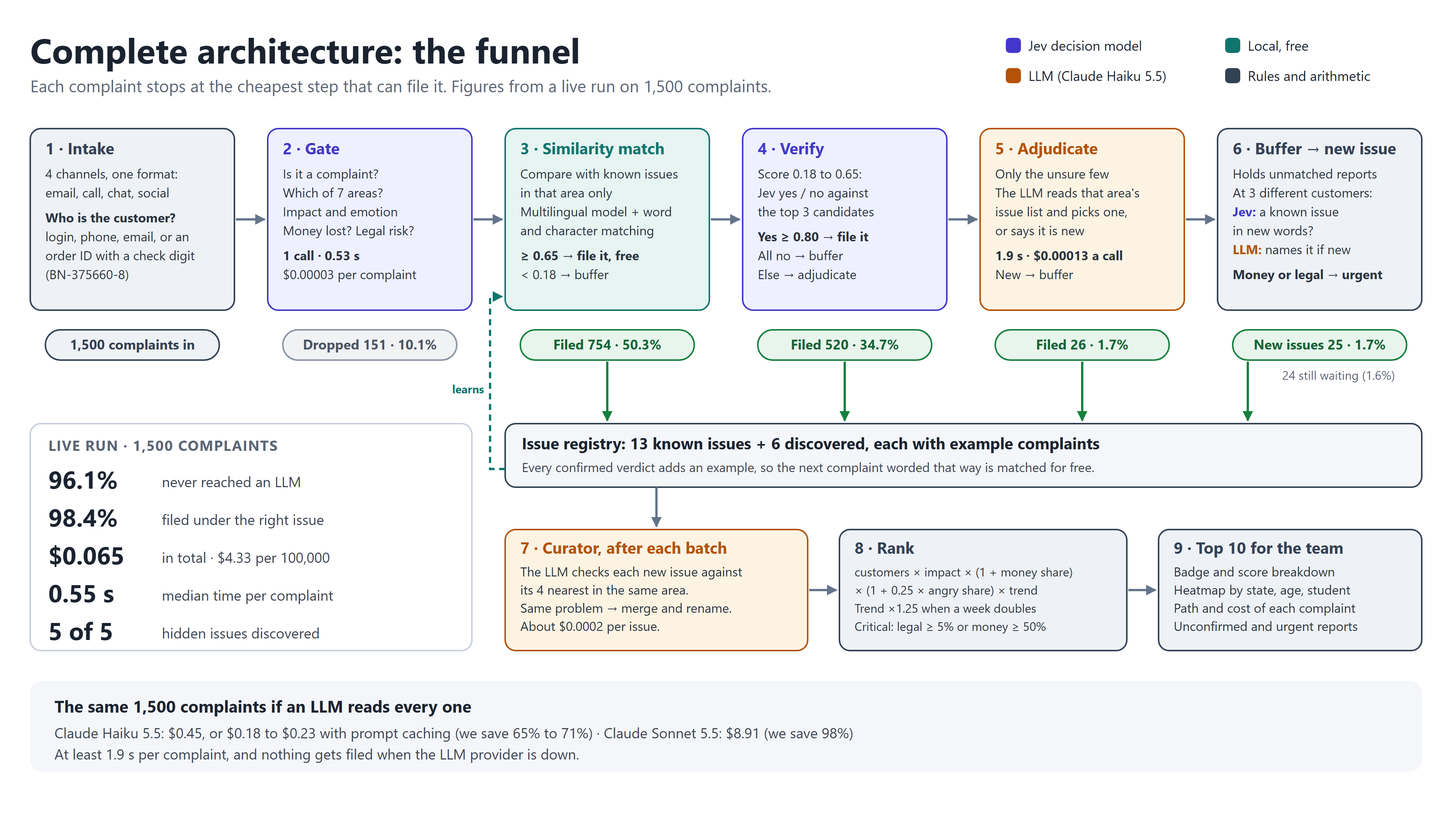
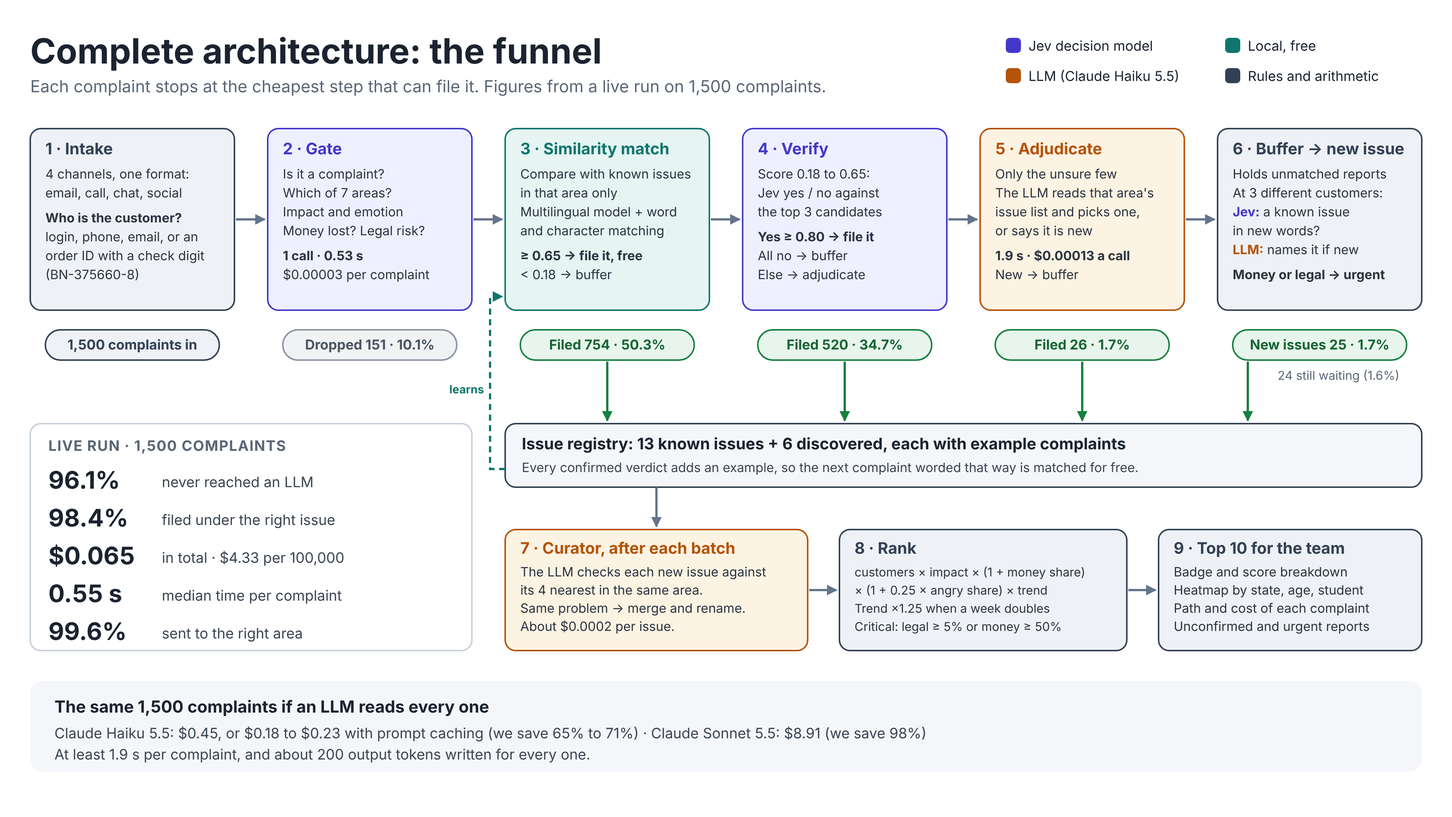
Remove the self-discovery and LLM-outage claims everywhere
Kartik judged "finds new problems on its own" weak, and outage resilience
is not a real advantage because a fallback LLM covers it. Removed from the
deck (discovery slide dropped, journey, close, problem, accuracy, segments,
limits), the funnel and Jev/LLM diagrams (SVG and PNG), the guide, the
frontend handoff and the session handoff, which also gets a standing rule
so the claims do not come back.

Claude-Session: https://claude.ai/code/session_014wJRZnMHXGCu4hqsJpRMMQ

diff --git a/docs/deck/project/slides/roles.html b/docs/deck/project/slides/roles.html
@@ -1,4 +1,4 @@
 <section id="roles" class="full">
-<img src="/_blob/96ac35eac52a443628ff6032cfc74c0b" alt="Who does what. Jev, a decision model, picks from options and returns probabilities: the gate on every complaint (1,500 calls, $0.046, 0.53 s each), verify for unsure matches (595 calls), and a group check before a new issue (7 calls). Local and free: intake and identity, similarity match (50.3% of complaints), the buffer, ranking and segments. The LLM, Claude Haiku 5.5, writes and judges in words: adjudicate the last unsure few (58 calls, 1.7% of complaints), name each new issue (6 calls), and the Curator after each batch (6 calls). Total: 96.1% never reach the LLM, 98.4% filed correctly, $0.065 for 1,500, 0.55 s median.">
+<img src="/_blob/4d0bb51e65e73df4c753d2590c4e7d5b" alt="Who does what. Jev, a decision model, picks from options and returns probabilities: the gate on every complaint (1,500 calls, $0.046, 0.53 s each), verify for unsure matches (595 calls), and a group check before a new issue (7 calls). Local and free: intake and identity, similarity match (50.3% of complaints), the buffer, ranking and segments. The LLM, Claude Haiku 5.5, writes and judges in words: adjudicate the last unsure few (58 calls, 1.7% of complaints), name each new issue (6 calls), and the Curator after each batch (6 calls). Total: 96.1% never reach the LLM, 98.4% filed correctly, $0.065 for 1,500, 0.55 s median.">
 <aside>How Jev works, and who does what. Three workers, by colour. Top row, Jev: a decision model. You give it the complaint and a list of questions with fixed options, and it returns a choice and a probability for each, never free text. It does three jobs. The gate: one call per complaint, six questions, is it a complaint, which area, impact, emotion, money lost, legal risk. Verify: when a match is unsure, is this the same problem as these three, yes or no. Group check: before we create a new problem, is this a known one in new words. Middle row, green, is free and runs on the laptop: reading the channels, finding the customer, matching by meaning, the waiting list, and the ranking. Bottom row, the LLM, Claude Haiku: only where words are needed. Deciding the last unsure 1.7 percent, naming new problems, and merging duplicates. 58 decision calls in the whole run of 1,500. Jev needs no training: the labels come from the business's settings file per request, so a new business only writes that file.</aside>
 </section>

diff --git a/docs/deck/project/slides/journey.html b/docs/deck/project/slides/journey.html
@@ -15,8 +15,7 @@
 </div>
 <div class="spacer"></div>
 <div class="strip fragment" data-fragment-index="6">
-<p class="tip"><b>A problem nobody has named?</b> Once 3 different customers report it, it is named and ranked on its own.</p>
 <p class="tip"><b>Money lost or a safety risk?</b> Flagged urgent from the very first report.</p>
 </div>
-<aside>Show this on the second laptop while you demo the prototype. Click once per step as the app does it. 1, it arrives: any channel, any language, here Hinglish on chat. 2, it is understood: the system decides this is a real complaint, that it is about payments, that money was lost and the impact is high. Praise, spam and questions are set aside here. 3, it is recognised: the complaint is tied to the customer, so someone who emails, calls and tweets counts as one person, not three. 4, it is filed under the right recurring problem, typically in about a second. 5, it moves the ranking: this problem is number 1 in the Top 10, 67 customers, Critical, and every score has a written reason. Last click: the system also finds problems nobody has named yet. Once three different customers report the same new thing, it gets a name and a rank by itself. In our test it found all five problems we hid. And a single report of lost money or a safety risk is flagged urgent straight away. Do not name the models here; that comes later.</aside>
+<aside>Show this on the second laptop while you demo the prototype. Click once per step as the app does it. 1, it arrives: any channel, any language, here Hinglish on chat. 2, it is understood: the system decides this is a real complaint, that it is about payments, that money was lost and the impact is high. Praise, spam and questions are set aside here. 3, it is recognised: the complaint is tied to the customer, so someone who emails, calls and tweets counts as one person, not three. 4, it is filed under the right recurring problem, typically in about a second. 5, it moves the ranking: this problem is number 1 in the Top 10, 67 customers, Critical, and every score has a written reason. Last click: a single report of lost money or a safety risk is flagged urgent straight away. Do not name the models here; that comes later.</aside>
 </section>

diff --git a/docs/deck/project/slides/problem.html b/docs/deck/project/slides/problem.html
@@ -4,7 +4,7 @@
 <div class="cards">
 <div class="card rise" style="--i:1"><h3>Four channels</h3><p class="text">Email, phone calls, chat and social posts, each in its own format.</p></div>
 <div class="card rise" style="--i:2"><h3>A hundred wordings</h3><p class="text">“paise kat gaye lekin order nahi bana” is the same problem as “money debited, no order”.</p></div>
-<div class="card rise" style="--i:3"><h3>Problems with no name</h3><p class="text">A bad app update starts double-charging people. Nobody has a label for it yet.</p></div>
+<div class="card rise" style="--i:3"><h3>One customer, many messages</h3><p class="text">Someone who emails, calls and tweets is one customer, not three.</p></div>
 </div>
-<aside>A business needs to know three things: which problems keep coming back, how many customers each one hurts, and which customer groups are hit hardest. That is hard because complaints come from four channels in different formats, the same problem is written a hundred ways in English, Hindi and Hinglish, and new problems appear that nobody has named. Also, one angry customer who emails, calls and tweets is one customer, not three.</aside>
+<aside>A business needs to know three things: which problems keep coming back, how many customers each one hurts, and which customer groups are hit hardest. That is hard because complaints come from four channels in different formats, the same problem is written a hundred ways in English, Hindi and Hinglish, and one angry customer who emails, calls and tweets is one customer, not three.</aside>
 </section>

diff --git a/docs/deck/project/slides/limits.html b/docs/deck/project/slides/limits.html
@@ -3,9 +3,9 @@
 <h2 class="title">What is not done yet</h2>
 <div class="cols">
 <div class="col"><h3>Limits</h3>
-<ul class="list"><li>Test data is cleaner than real complaints</li><li>Cut-offs tuned on the data they are scored on</li><li>The LLM-everywhere baseline is priced, not run</li><li>One hidden problem came out as two issues</li></ul></div>
+<ul class="list"><li>Test data is cleaner than real complaints</li><li>Cut-offs tuned on the data they are scored on</li><li>The LLM-everywhere baseline is priced, not run</li></ul></div>
 <div class="col"><h3>Next</h3>
 <ul class="list"><li>A telecom domain pack</li><li>Voice agent phone demo (the webhook is built)</li><li>Plain-language weekly insights</li><li>Tune on a real labelled sample</li></ul></div>
 </div>
-<aside>Say these before a judge does. The data comes from templates, so accuracy on real complaints will be lower. Cut-offs were tuned on the same data they are measured on. The comparison baseline was projected from calibrated token counts, not run. One hidden problem split in two. Next: a telecom pack, the voice agent phone demo, plain-language insights, and tuning on a real labelled sample.</aside>
+<aside>Say these before a judge does. The data comes from templates, so accuracy on real complaints will be lower. Cut-offs were tuned on the same data they are measured on. The comparison baseline was projected from calibrated token counts, not run. Next: a telecom pack, the voice agent phone demo, plain-language insights, and tuning on a real labelled sample.</aside>
 </section>

diff --git a/docs/deck/project/slides/segments.html b/docs/deck/project/slides/segments.html
@@ -5,6 +5,6 @@
 <div class="card"><p class="big">2.4×</p><p class="text">Students are 2.4 times as likely to hit UPI payment timeouts: 29.7% of students vs 12.5% of all customers.</p></div>
 <div class="card"><p class="big">1.75×</p><p class="text">Maharashtra is 1.75 times as likely to report “delivered but not received”: 32.3% vs 18.5%.</p></div>
 </div>
-<p class="note">Rate = customers affected ÷ size of the group, so a big group does not look worst just for being big. Both patterns were planted; the engine found them without being told.</p>
-<aside>Every customer has a state, an age group and student status. For each issue we compare the rate inside a group with the overall rate. Students hit UPI timeouts 2.4 times as often; Maharashtra reports delivered-but-not-received 1.75 times as often. Both were planted in the mock data and found without being told.</aside>
+<p class="note">Rate = customers affected ÷ size of the group, so a big group does not look worst just for being big. Both patterns were planted in the test data, and both show up in the heatmap.</p>
+<aside>Every customer has a state, an age group and student status. For each issue we compare the rate inside a group with the overall rate. Students hit UPI timeouts 2.4 times as often; Maharashtra reports delivered-but-not-received 1.75 times as often. Both were planted in the mock data, and both show up in the heatmap.</aside>
 </section>

diff --git a/docs/deck/project/slides/funnel.html b/docs/deck/project/slides/funnel.html
@@ -1,4 +1,4 @@
 <section id="funnel" class="full">
-<img src="/_blob/2d5f1b02e1cafc69e4e689aecc3f9c03" alt="The full funnel: intake, gate, similarity match, verify, LLM adjudicate, buffer to new issue, issue registry, Curator, rank, Top 10. Live run results: 96.1% never reached an LLM, 98.4% filed under the right issue, $0.065 total, 0.55 s median, 5 of 5 hidden issues found.">
+<img src="/_blob/f38c4ada4806d23dd333313e32a0aed1" alt="The full funnel: intake, gate, similarity match, verify, LLM adjudicate, buffer to new issue, issue registry, Curator, rank, Top 10. Live run results: 96.1% never reached an LLM, 98.4% filed under the right issue, $0.065 total, 0.55 s median, 99.6% sent to the right area.">
 <aside>Walk left to right. 1 Intake turns four channels into one shape and works out who the customer is. 2 The gate, Jev, drops non-complaints and picks the area: 10 percent dropped. 3 Similarity match, local and free, files half of all complaints. 4 Jev's yes/no check files another 35 percent. 5 Only 1.7 percent reach the LLM. 6 Anything new waits in the buffer until 3 different customers report it; then the LLM names a new issue. Every confirmed verdict becomes an example, so the system gets cheaper as it runs. After each batch the Curator merges duplicates, and the ranker builds the Top 10.</aside>
 </section>

diff --git a/docs/deck/project/slides/close.html b/docs/deck/project/slides/close.html
@@ -4,9 +4,9 @@
 <div class="row3">
 <div class="stat rise" style="--i:1"><p class="big">0.55 s</p><p class="text">to file a typical complaint</p></div>
 <div class="stat rise" style="--i:2"><p class="big">96.1%</p><p class="text">never wait on an LLM</p></div>
-<div class="stat rise" style="--i:3"><p class="big">5 of 5</p><p class="text">hidden problems found on their own</p></div>
+<div class="stat rise" style="--i:3"><p class="big">98.4%</p><p class="text">filed under the right issue</p></div>
 </div>
 <div class="spacer"></div>
 <p class="lead">Thank you. Questions?</p>
-<aside>Close on three numbers: a typical complaint is filed in 0.55 seconds, 96 percent never wait on an LLM, which is why it is fast and cheap, and it found all five problems we hid in the data without being told. Then take questions. Backup slides follow for accuracy, discovery, ranking, customer groups, other businesses and limits.</aside>
+<aside>Close on three numbers: a typical complaint is filed in 0.55 seconds, 96 percent never wait on an LLM, which is why it is fast and cheap, and 98.4 percent are filed under the right issue. Then take questions. Backup slides follow for accuracy, ranking, customer groups, other businesses and limits.</aside>
 </section>

diff --git a/docs/deck/project/slides/accuracy.html b/docs/deck/project/slides/accuracy.html
@@ -7,9 +7,7 @@
 <tr><td>Real complaints kept</td><td>99.9%</td></tr>
 <tr><td>Praise, spam and questions removed</td><td>100%</td></tr>
 <tr><td>Sent to the right part of the business</td><td>99.6%</td></tr>
-<tr><td>Customer links correct</td><td>100% of 1,215 (0 wrong)</td></tr>
-<tr><td>Hidden problems discovered</td><td>5 of 5</td></tr>
-</table>
+<tr><td>Customer links correct</td><td>100% of 1,215 (0 wrong)</td></tr></table>
 <p class="note">Template-generated data with a fixed seed. The engine never sees the answer key. Real complaints will be messier.</p>
 <aside>Every complaint in the test data has a hidden answer: which issue it belongs to and which customer sent it. The engine never sees it; we only use it to score. By step: free matching was 99.2 percent right, Jev's verify 97.3, the LLM 96.2, new issues 100. Be honest: the data was generated from templates, so it is cleaner than real complaints, and the cut-offs were tuned on this same data. On real data we would tune on one labelled sample and measure on another.</aside>
 </section>

diff --git a/HANDOFF.md b/HANDOFF.md
@@ -4,7 +4,7 @@ Everything a new session needs to continue. Read this first, then `HOW_IT_WORKS.
 
 ## 1. Project and people
 
-- **What:** HackStellar PS-19 "Complaint Compass". A classifier-first funnel that files customer complaints from 4 channels under recurring issues, discovers new issues, and ranks a transparent Top 10.
+- **What:** HackStellar PS-19 "Complaint Compass". A classifier-first funnel that files customer complaints from 4 channels under recurring issues, and ranks a transparent Top 10.
 - **Team of 2:** Kartik (backend, the user of these sessions) and Jnanottam (frontend in `frontend/`, his own stack, not built by us).
 - **Today, 13 Nov 2026:** Round 1 at **11:00 AM**, offline, judged by teachers (CSE department hackathon). Final at **4:30 PM** before industry judges (Siddhartha Pandey, Microsoft; Abhijit Verma, Ribbon).
 - **Repo:** https://github.com/Kartikkatwe/Hackstellar (public). Branch `main`.
@@ -18,6 +18,7 @@ Everything a new session needs to continue. Read this first, then `HOW_IT_WORKS.
 5. **Secrets:** API keys live in `backend/.env` and `backend/keys`, both gitignored. Never commit or paste them anywhere. A remote session does not have them: ask Kartik to set `OPENROUTER_API_KEY` in that environment if a live call is needed.
 6. **Privacy:** never put Kartik's email in commits or external requests. Commit as `Kartikkatwe <Kartikkatwe@users.noreply.github.com>`, ending messages with `Co-Authored-By: Claude Opus 5.5 <noreply@anthropic.com>`.
 7. **Pitch honesty:** quote measured numbers only, name the comparison model, say what was projected rather than run.
+8. **Pitch: do not use** "finds new problems on its own / 5 of 5 hidden problems found" or "keeps working when the LLM provider is down" (a fallback LLM solves outages). Kartik removed both; lead with speed, cost and output tokens.
 
 ## 3. Where things are
 
@@ -49,13 +50,10 @@ Latest fixes (second live run, all pushed): Haiku 5.5 with `reasoning: {effort: 
 | Gate | 99.9% of real complaints kept, 100% of non-complaints removed (151 dropped) |
 | Component routing | 99.6% |
 | Identity | 100% of 1,215 links correct, 0 wrong, 285 unlinked |
-| Hidden issues | 5 of 5 found, as 6 issues, all 100% pure (rude delivery partner split into "rude" 34 + "demands extra payment" 8; Curator judged them different) |
 | Settled at | dropped 10.1%, match 50.3%, verify 34.7%, LLM 1.7%, new issue 1.7%, waiting 1.6% |
 | Cost | $0.0650 total ($4.33 per 100k): gate $0.0464 (1,500 calls), verify $0.0096 (595), LLM $0.0074 (58), group check $0.0001 (7), naming $0.0004 (6), Curator $0.0010 (6) |
 
 **Speed** (from `events` latencies): per complaint median **0.55 s**, mean 0.83 s, p90 1.11 s, p99 3.54 s. Gate 0.53 s avg, verify 0.54 s, LLM call 1.90 s (163 output tokens), Curator 2.18 s. By path: match 0.53 s, verify 1.09 s, LLM 3.19 s. Local similarity ≈ 0.02 s. LLM-for-everything ≥ 1.9 s per complaint (floor: our Haiku calls had shorter prompts). 2.3× faster on average, 3.5× at the median.
-
-**Detection time** (first complaint of a hidden issue → issue named): duplicate charge after app update **15.1 h** (10 complaints by then); Android app crash **23.4 h**; promo not applied 29.3 h; rude partner 101 h (4.2 days); partial refund 171.7 h (7.2 days). Sudden outages are named within a day; slow trickles wait for 3 different customers.
 
 **Cost by monthly volume** (funnel vs LLM-for-everything on Haiku; caching replayed against real arrival gaps):
 
@@ -71,7 +69,7 @@ Sonnet 5.5: $594 per 100k uncached, about $226 with best caching (we save 98–9
 
 **Top 10** (live run): 1 Money debited but order not placed (67 customers, 560.2, Critical); 2 Duplicate payment debits for a single order after app update (52, 547.3, Critical, rising; formula 52 × 3.69 × 2.00 × 1.14 × 1.25); 3 Marked delivered but not received (74, 462.0, Critical); 4 Refund not received (46, 311.8, Critical); 5 Expired or spoiled product delivered (47, 274.8, Critical, legal); 6 App crashes after latest update (60, 243.5, High, rising); 7 Items missing (41, 211.6, Critical); 8 Login OTP late (85, 190.6, High); 9 Delivery late (78, 186.3, High); 10 UPI payment times out (50, 163.3, High).
 
-**Segments** (heatmap lift = segment rate ÷ overall rate): students are **2.4×** as likely to hit UPI timeouts (29.7% vs 12.5% of all customers); Maharashtra is **1.75×** as likely to report "delivered but not received" (32.3% vs 18.5%). Both patterns were planted in the mock data; the engine found them without being told.
+**Segments** (heatmap lift = segment rate ÷ overall rate): students are **2.4×** as likely to hit UPI timeouts (29.7% vs 12.5% of all customers); Maharashtra is **1.75×** as likely to report "delivered but not received" (32.3% vs 18.5%). Both patterns were planted in the mock data and show up in the heatmap.
 
 ## 5. In progress: the pitch deck
 
@@ -80,22 +78,9 @@ Sonnet 5.5: $594 per 100k uncached, about $226 with best caching (we save 98–9
 - **Deck:** https://claude.ai/artifact/RgTd5SB87GSgynCWfGXhR1 (Slides artifact type, private: Kartik must share it from its Share menu before others can open it).
 - **Source:** `docs/deck/project/` (identical to what is published). Publish changes with the Artifact tool: `url` = the deck, `root` = the folder that holds `project/` (e.g. `docs/deck`), `file_path` = one file's absolute path, `files` = the others as `{"project/slides/x.html": "project/slides/x.html"}`. Send `deck.json` only if order/sections/faces change. If no Artifact tool is available, write the slide files into `docs/deck/project/slides/` and push; Kartik publishes them from his machine.
 - **Look:** Space Grotesk headings, Inter body, JetBrains Mono for formulas. Tokens in `deck.css` on `section`: ink `#141A2E`, body `#4A5568`, paper `#F6F7FA`, paper2 `#ECEFF5`, card `#FCFCFD`, line `#D9DEE8`, accent indigo `#4338CA`, accent-soft `#E7E9FB`, statement `#312E81`. Classes ready: `.eyebrow .title .lead .note .spacer .cards .card(.text .big) .grid2 .stat(.big .text) .table .head .formula .example .cols .col .list .full .dark .cover .statement(.say) .row3 .close .demo-*  .rise` (staged arrival with `style="--i:N"`). Type scale 120 / 64 / 44 / 32 / 24. Canvas 1920×1080, padding 128.
-- **Uploaded images:** gate `/_blob/f6b13f7876e8ad7771110eb12ce69c81`, funnel `/_blob/2d5f1b02e1cafc69e4e689aecc3f9c03`, domain packs `/_blob/109169679456cdc65d59bcc4a79bc7f8`. Full-bleed image slides use `<section class="full"><img src="…" alt="…">`.
-- **Order (16):** cover, problem, llm, idea, funnel, gate, demo, speed, discovery, accuracy, ranking, segments, cost, packs, limits, close.
-
-**Published (7):** cover, problem, llm, idea, funnel, gate, demo. Each has speaker notes in an `<aside>`.
-
-**Still to write (9), with planned content** (numbers from section 4):
-
-1. **speed** — eyebrow SPEED; title "Filed in half a second, while the customer is still on the line"; `.grid2` of 4 `.stat`: **0.55 s** "median time to file a complaint (an LLM call alone takes 1.9 s or more)"; **96.1%** "of complaints never wait on an LLM, so outages and rate limits barely touch us"; **15 h** "from the first double-charge complaint to a named issue, now ranked #2 and Critical"; **1 report** "of lost money or a safety risk is flagged urgent at once". Notes: live triage while the customer is on chat/call; under a complaint spike only ~4% queue on the LLM; Android crash named in 23 h.
-2. **discovery** — title "It found all 5 problems we hid in the data"; `.table` columns Problem (as the LLM named it) / Reports / Named after first report: Duplicate payment debits after app update 73 / 15 hours; App crashes after latest update 91 / 23 hours; Coupon shows applied but no discount 44 / 29 hours; Delivery executive rude to customer 34 + 8 / 4 days; Refund less than amount paid 35 / 7 days. `.note`: sudden outages named within a day; slow trickles wait for 3 different customers; one problem came out as two issues.
-3. **accuracy** — eyebrow "ACCURACY · LIVE RUN, 1,500 COMPLAINTS"; title "Measured against an answer key"; table Check / Result: Filed under the right issue 98.4% of 1,325; Real complaints kept 99.9%; Praise, spam and questions removed 100%; Sent to the right part of the business 99.6%; Customer links correct 100% of 1,215 (0 wrong); Hidden problems discovered 5 of 5. `.note`: template-generated data with a fixed seed; the engine never sees the answer key; real complaints will be messier.
-4. **ranking** — title "A score anyone can check with a calculator"; `.formula`: customers × impact × (1 + money share) × (1 + 0.25 × anger share) × trend; `.example`: 52 × 3.69 × 2.00 × 1.14 × 1.25 = 547.3 for duplicate payment debits (Critical, rising); table of top 4 (rank, issue, customers, badge).
-5. **segments** — title "It shows who is hit hardest"; two `.card`s with `.big` **2.4×** (students, UPI timeouts, 30% vs 12.5%) and **1.75×** (Maharashtra, delivered but not received, 32% vs 18.5%); `.note`: rate = affected ÷ segment size so big segments don't look worst; both patterns were planted and found.
-6. **cost** — title "It also costs a fraction"; table Complaints a month / Our funnel / Haiku, best caching / Sonnet, no caching: 1,000 $0.04 / $0.18 / $5.94; 10,000 $0.43 / $1.30 / $59; 100,000 $4.33 / $12.32 / $594. `.note`: Sonnet with best caching about $226 per 100k; baseline priced from calibrated token counts, not run.
-7. **packs** — `.full` image of domain packs; notes: one settings file per business, Jev takes labels per request so no training, telecom pack planned.
-8. **limits** — title "What is not done yet"; `.cols`: Limits (mock data is cleaner than real; cut-offs tuned on the data they are scored on; baseline priced, not run; one hidden problem split in two) and Next (telecom pack; voice agent phone demo, webhook built; plain-language weekly insights; tune on a real labelled sample).
-9. **close** — `.dark .close`; h1 Complaint Compass; `.row3` of 3 `.stat`: 0.55 s to file a complaint; 96.1% never wait on an LLM; 5 of 5 hidden problems found; `.lead` "Thank you. Questions?".
+- **Uploaded images:** gate `/_blob/f6b13f7876e8ad7771110eb12ce69c81`, funnel `/_blob/f38c4ada4806d23dd333313e32a0aed1`, domain packs `/_blob/109169679456cdc65d59bcc4a79bc7f8`, Jev/LLM roles `/_blob/4d0bb51e65e73df4c753d2590c4e7d5b`, complaint flow tree `/_blob/81e2877fdc67381e24b813c59d558ac9`. Full-bleed image slides use `<section class="full"><img src="…" alt="…">`.
+- **Order (17), all published with speaker notes:** cover, problem, journey, demo, llm, numbers, idea, gate, roles, flow, close, then backup: accuracy, ranking, segments, packs, limits, funnel.
+- **How it is presented:** the prototype runs on one laptop, the deck on another. `journey` (one complaint from message to Top 10, no model names) shows during the demo. Then a pause and `llm` (the usual way: 1.9 s+, ~200 output tokens per complaint, $594 per 100k on Sonnet), a pause and `numbers` (65–85% cheaper, 96% fewer output tokens, 2.3× faster, 3.5× at the median). Then `idea` ("Choose, don't write."), `gate`, `roles` (how Jev works), `flow` (the 10-step complaint flow). Click steps use `.fragment` in `deck.css`.
 
 Rules from the Slides type: one `<section id="<id>">` per file, the id equal to the file name; speaker notes in one `<aside>` as the last child; font sizes ≥ 24px; never verify by rendering unless Kartik asks.
 

diff --git a/HOW_IT_WORKS.md b/HOW_IT_WORKS.md
@@ -48,23 +48,20 @@ HackStellar PS-19, "Complaint Compass": a business gets complaints across email,
 
 **Why it is hard:**
 - The same problem is written a hundred ways, in English, Hindi and Hinglish ("paise kat gaye lekin order nahi bana").
-- New problems appear that nobody has named yet (a bad app update starts double-charging people).
 - Each channel has its own format and its own way of identifying the customer.
-- Reading every complaint with an LLM works, but is slow, costs money at scale, and stops completely when the LLM provider has an outage.
+- Reading every complaint with an LLM works, but is slow, and costs money at scale, mostly in output tokens it writes for every complaint.
 
 ---
 
 ## 3. Why this product is good
 
-1. **Fast.** Half of all complaints are filed in 0.55 s or less. An LLM reading every complaint takes at least 1.9 s each. The real speed win is **time to discovery**: a new problem becomes a ranked issue as soon as 3 different customers report it, and a single report of lost money or a safety risk is flagged urgent immediately.
-2. **Keeps working when the LLM does not.** 96% of complaints never touch the LLM. If the LLM provider is slow, rate-limited or down, almost everything still gets filed.
-3. **Cheap.** $4.33 per 100,000 complaints. An LLM reading every one costs $29.70 (Haiku), $12.32 with the best prompt caching, or about $594 (Sonnet).
-4. **Explainable.** Every complaint stores which step filed it, why, how sure it was, and what it cost. Every ranking score is a written formula a judge can check with a calculator.
-5. **Counts people, not messages.** Identity resolution links each complaint to a customer, so repeat contacts are counted once.
-6. **Finds new problems by itself.** It discovered all 5 problems we hid in the data, without being told they existed.
-7. **Works in Hinglish.** The multilingual model plus word matching handles mixed-language complaints.
-8. **Any business.** Everything about groceries lives in one settings file (the domain pack). A telecom or a bank writes its own file; the engine does not change. Jev needs no training for new labels.
-9. **Gets cheaper over time.** When Jev or the LLM confirms a tricky wording, it becomes an example, so the next complaint written that way is matched for free.
+1. **Fast.** Half of all complaints are filed in 0.55 s or less. An LLM reading every complaint takes at least 1.9 s each. A single report of lost money or a safety risk is flagged urgent immediately.
+2. **Cheap.** $4.33 per 100,000 complaints. An LLM reading every one costs $29.70 (Haiku), $12.32 with the best prompt caching, or about $594 (Sonnet).
+3. **Explainable.** Every complaint stores which step filed it, why, how sure it was, and what it cost. Every ranking score is a written formula a judge can check with a calculator.
+4. **Counts people, not messages.** Identity resolution links each complaint to a customer, so repeat contacts are counted once.
+5. **Works in Hinglish.** The multilingual model plus word matching handles mixed-language complaints.
+6. **Any business.** Everything about groceries lives in one settings file (the domain pack). A telecom or a bank writes its own file; the engine does not change. Jev needs no training for new labels.
+7. **Gets cheaper over time.** When Jev or the LLM confirms a tricky wording, it becomes an example, so the next complaint written that way is matched for free.
 
 ---
 
@@ -522,7 +519,6 @@ Helpers:
 | Gate | 99.9% of real complaints kept, 100% of non-complaints removed |
 | Component routing | 99.6% |
 | Identity | 100% of 1,215 links correct, 0 wrong, 285 unlinked |
-| Hidden issues found | 5 of 5 (as 6 issues, all 100% pure) |
 | Cost | $0.065 total, $4.33 per 100,000 |
 | Time per complaint | 0.55 s median, 0.83 s average |
 
@@ -535,7 +531,7 @@ Cost per step: gate $0.0464 (1,500 calls), verify $0.0096 (595), LLM adjudicate 
 ## 11. Questions judges may ask
 
 **"Why not just use an LLM for everything?"**
-It is slower (at least 1.9 s per complaint against 0.55 s), stops when the provider is down, hits rate limits during complaint spikes, and costs 7× (Haiku) to 140× (Sonnet) more. Our funnel uses the LLM only where it adds value: the 4% that cheaper steps cannot decide, naming new issues, and merging duplicates.
+It is slower (at least 1.9 s per complaint against 0.55 s), writes about 200 output tokens for every complaint, and costs 7× (Haiku) to 140× (Sonnet) more. Our funnel uses the LLM only where it adds value: the 4% that cheaper steps cannot decide, naming new issues, and merging duplicates.
 
 **"Why is Jev better than an LLM for the gate?"**
 Every gate answer is a choice, not writing. Jev returns calibrated probabilities, so unsure answers can be passed on, and it can only answer from the given options. It costs $0.00003 per complaint.

diff --git a/FOR_JNANOTTAM.md b/FOR_JNANOTTAM.md
@@ -157,7 +157,6 @@ copy runs\grocery_live_backup.db runs\grocery.db
 | Gate | kept 99.9% of real complaints, removed 100% of non-complaints |
 | Routed to the right component | 99.6% |
 | Customer links correct | 100% of 1,215; 285 unlinked |
-| Hidden issues discovered | 5 of 5, as 6 issues, all 100% pure, none duplicating a known issue |
 | Funnel cost | $0.065 ($4.33 per 100,000 complaints), of which naming and Curator $0.0014 |
 
 Settled at: gate 10.1%, similarity match 50.3%, Jev verify 34.7%, LLM 1.7%, became a new issue 1.7%, still waiting 1.6%.
